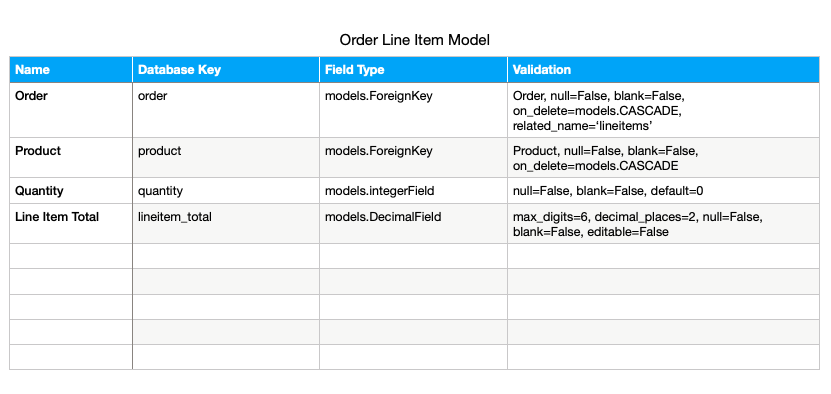
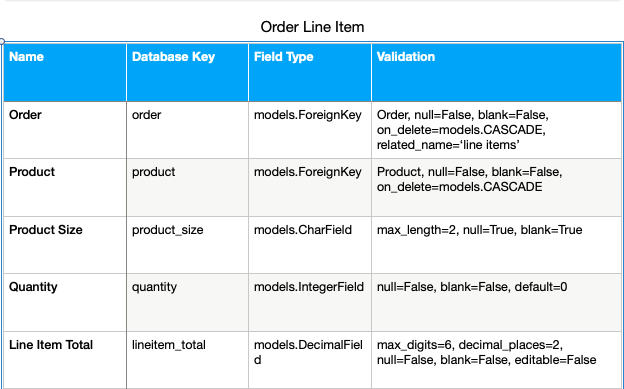
User stories and database models sections updated in README.md

Changed region(s): [[0.0, 0.0617, 1.0, 1.0], [0.1522, 0.9254, 0.2131, 0.9563], [0.1522, 0.617, 0.2131, 0.6478]]

diff --git a/README.md b/README.md
@@ -50,6 +50,14 @@ My initial wireframes and database schemas were sketched on paper and when I was
 ## Admin & Store Management user stories:
 ![Admin](wireframes/user-story-5.png)
 
+
+## Reviews user stories:
+![Admin](wireframes/user-story-6.png)
+
+
+## Wishlist user stories:
+![Admin](wireframes/user-story-7.png)
+
 ## Strategy:
 ### What am I making?
 A website/app that offers users to sign up/ Login/ Browse products & purchase products/ Write data to the database in the form of reviews/ view, edit and delete their orders and order history/ Add and remove products to a wishlist and checkout bag/ Receive confirmation emails/ Checkout securely using Stripe payments. 
@@ -301,7 +309,7 @@ New user's may sign up for an account for a better user experience and also to a
 ### Log in
 Returning users may log in using built in Django allauth functionality. Crispy forms has been used all forms on the website.
 
-![SNEAKERFANS](wireframes/log-in.png)
+![SNEAKERFANS](wireframes/login.png)
 
 ### Footer
 I have added social media links and contact details in the footer. All social media icons are clickable and work in external tabs.
@@ -318,7 +326,23 @@ There are some features that I would love to implement on future releases:
 Allow returning user's to sign in more quickly and securely using social accounts.
 2. #### Suggested Products:
 Suggest products to returning users based on their order history.
-3. 
+3. #### Order tracking and fullfillment functionality:
+Allow users to track to orders and allow admin to manage orders and shipping.
+4. #### Inventory:
+Implement functionality to allow users to implement inventory checks automatically and apply the appropriate 'only 4 left' or 'sold out' messages to the product template. Also allow users to be notified when a product is back in stock.
+4. #### Discount Codes: 
+Implement functionality to check if a product has a certain amount left in stock against its original stock count. If the product is selling poorly use a 3rd party api to generate coupon codes to allow user's to avail of disounts.
+
+## **[BACK TO TOP](#content-quick-links)** *
+<hr style="height:5px;border-width:0;color:gray;background-color: #005b96">
+
+# Sitemap Layout
+The site map was designed using [Lucid Chart](https://www.lucidchart.com/pages/)
+
+![Sitemap](wireframes/sitemap.png)
+
+## **[BACK TO TOP](#content-quick-links)** *
+<hr style="height:5px;border-width:0;color:gray;background-color: #005b96">
 
 # Data Modelling: 
 
@@ -335,5 +359,12 @@ Suggest products to returning users based on their order history.
 
 ![Order Line Item model](wireframes/order-line-item-model.png)
 
+## Review App
+![Review model](wireframes/review-model.png)
+
+## Wishlist App
+![Wishlist model](wireframes/wishlist-model.png)
+
+![WishlistItem model](wireframes/wishlist-item-model.png)
 
 
